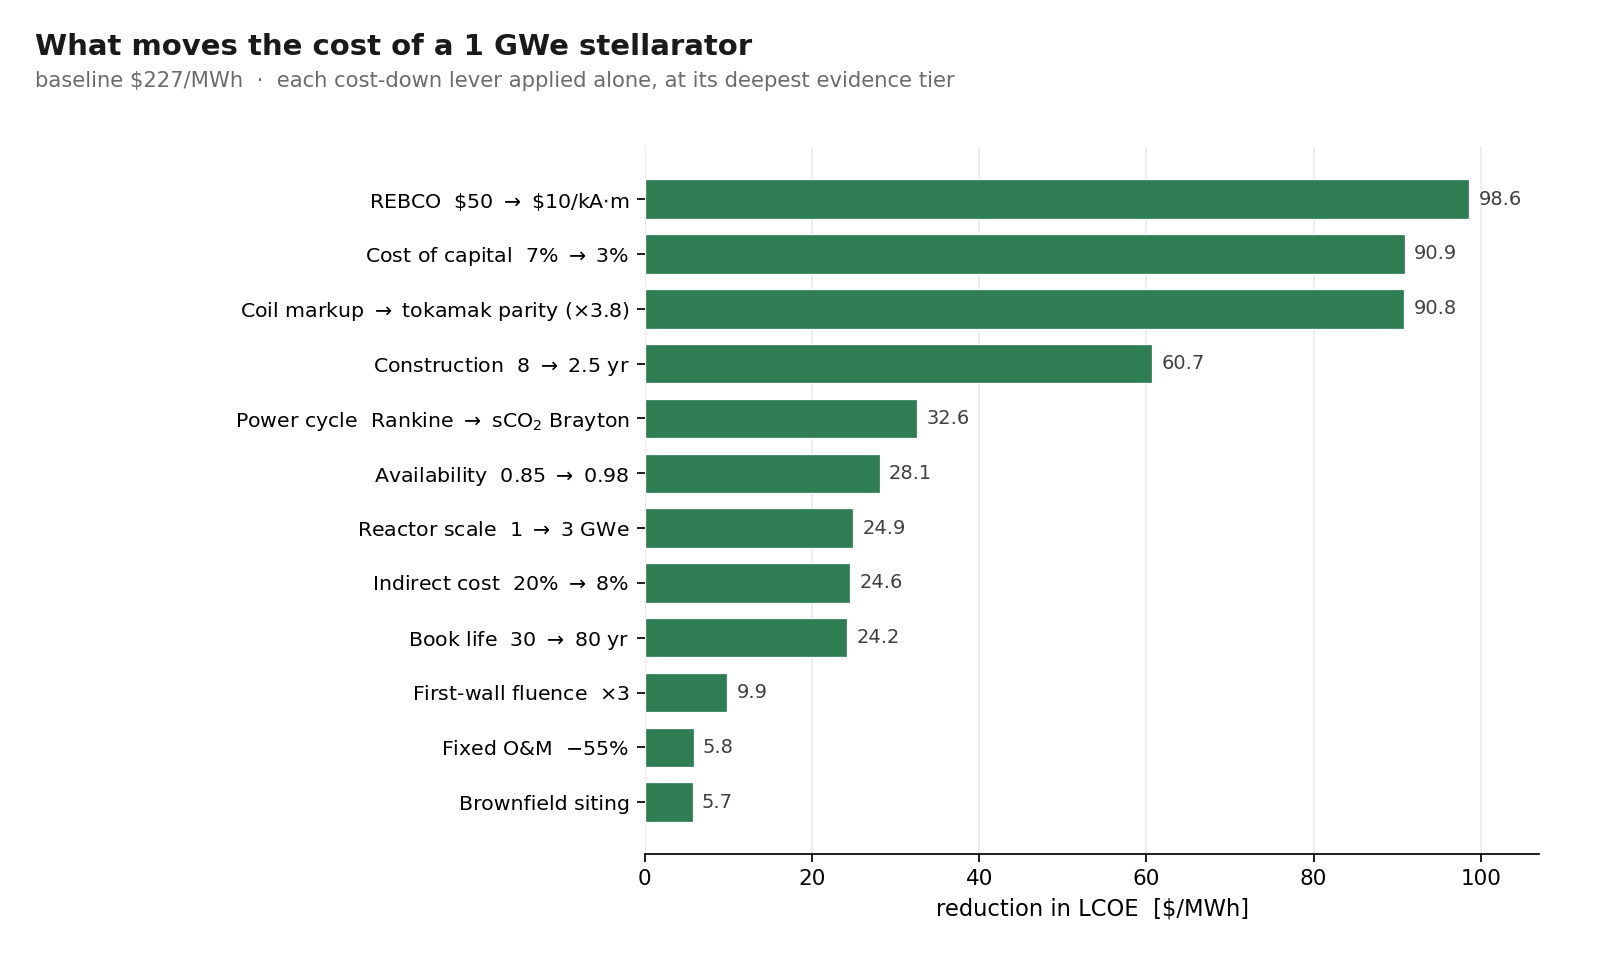
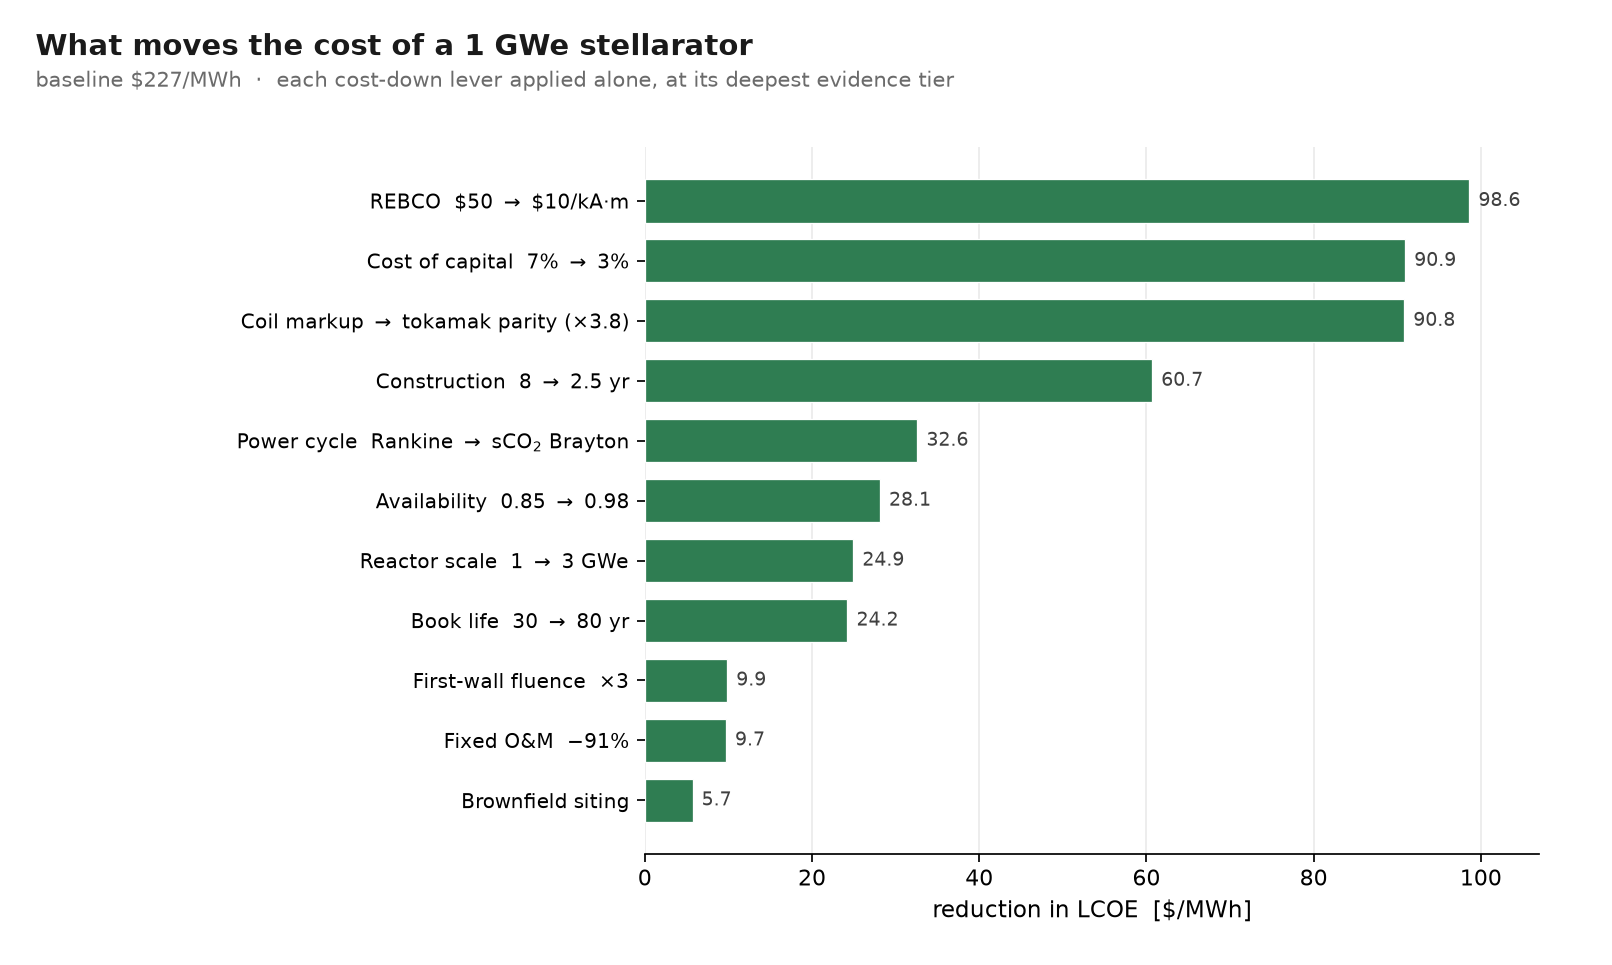
Match the published article: indirects held at 20% nominal, tier-3 lights-out O&M, regenerated results and figures
Per the 30 September publication check. See the PR description for the itemized changes.

diff --git a/tier_ladder_figs.py b/tier_ladder_figs.py
@@ -40,7 +40,23 @@ TIERS = ["0: design basis", "1: applicable record",
 DOT, MINUS, SUB2, TIMES = "·", "−", "₂", "×"
 
 
-def ladder(fname, title, sub, s1_label, s1, s2_label, s2, notes, ymax=None):
+def ladder(fname, title, sub, s1_label, s1, s2_label, s2, notes, ymax=None,
+           cents=False):
+    """cents=True plots in ¢/kWh instead of $/MWh (1 ¢/kWh == $10/MWh).
+
+    The corridor model works in $/MWh throughout, so the conversion happens
+    here at the plotting boundary only -- corridor_tiers.json stays canonical
+    and the other two corridors keep their $/MWh axis untouched.
+    """
+    scale = 0.1 if cents else 1.0
+    s1 = [v * scale for v in s1]
+    s2 = [v * scale for v in s2]
+    target = TARGET * scale
+    ylabel = "LCOE  [¢/kWh]" if cents else "LCOE  [$/MWh]"
+    # ~1-13 ¢/kWh needs a second decimal to keep the tiers distinguishable
+    vfmt = ",.2f" if cents else ",.1f"
+    tlabel = "1 ¢/kWh" if cents else "1 ¢/kWh\n($10/MWh)"
+
     fig, ax = plt.subplots(figsize=(13.2, 6.0))
     fig.patch.set_facecolor(SURFACE)
     ax.set_facecolor(SURFACE)
@@ -57,14 +73,14 @@ def ladder(fname, title, sub, s1_label, s1, s2_label, s2, notes, ymax=None):
             off = hi * 0.015
             ax.text(bar.get_x() + bar.get_width() / 2,
                     v + off if v >= 0 else v - off * 2.4,
-                    f"{v:,.1f}", ha="center",
+                    format(v, vfmt), ha="center",
                     va="bottom" if v >= 0 else "top",
                     fontsize=11.5, color=INK, fontweight="600", zorder=4)
 
     # target line, with a left gutter opened up so its label never sits on a bar
     ax.set_xlim(-0.92, len(TIERS) - 0.5)
-    ax.axhline(TARGET, ls="--", lw=1.1, color="#b8891f", zorder=2)
-    ax.text(-0.88, TARGET + hi * 0.014, "1 ¢/kWh\n($10/MWh)", fontsize=10,
+    ax.axhline(target, ls="--", lw=1.1, color="#b8891f", zorder=2)
+    ax.text(-0.88, target + hi * 0.014, tlabel, fontsize=10,
             color="#b8891f", ha="left", va="bottom", zorder=5, linespacing=1.35)
     if lo < 0:
         ax.axhline(0, lw=0.9, color=RULE, zorder=2)
@@ -78,7 +94,7 @@ def ladder(fname, title, sub, s1_label, s1, s2_label, s2, notes, ymax=None):
         ax.text(i, -0.125, n, transform=tr, ha="center", va="top",
                 fontsize=9.6, color=MUTED, linespacing=1.6)
 
-    ax.set_ylabel("LCOE  [$/MWh]", fontsize=12.5, color=INK, fontweight="600")
+    ax.set_ylabel(ylabel, fontsize=12.5, color=INK, fontweight="600")
     ax.set_ylim(lo * 1.35 if lo < 0 else 0, hi)
     ax.set_title(title, fontsize=16, color=INK, fontweight="600", loc="left", pad=20)
     ax.text(0, 1.018, sub, transform=ax.transAxes, fontsize=11.5, color=MUTED,
@@ -105,8 +121,10 @@ def ladder(fname, title, sub, s1_label, s1, s2_label, s2, notes, ymax=None):
 # Tier 1 carries no cost-of-capital record, so the 7% design basis is held there.
 NOTE_T1 = (f"no WACC record (7% held)\n"
            f"0.92 avail {DOT} 60 yr life {DOT} 5 yr build\n"
-           f"16% indirect {DOT} O&M {MINUS}31%")
+           f"16.7% eff. indirect {DOT} O&M {MINUS}31%")
 
+# Trimmed for this repository: the shared engine also draws the other
+# corridors' ladders, which live in their own repositories.
 # ------------------------------------------------------------------- mature D-T
 M = D["mature"]
 ladder(
@@ -119,42 +137,10 @@ ladder(
     ["machine as designed,\ncommercial economics",
      NOTE_T1,
      f"5% WACC {DOT} 0.95 avail {DOT} 80 yr life\n"
-     f"3.25 yr build {DOT} sCO{SUB2} {DOT} 12% indirect\n"
+     f"3.25 yr build {DOT} sCO{SUB2} {DOT} 10.8% eff. indirect\n"
      f"REBCO $25/kA{DOT}m {DOT} parity coils {DOT} fluence {TIMES}2",
      f"3% WACC {DOT} 0.98 avail {DOT} 2.5 yr build\n"
-     f"8% indirect {DOT} REBCO $10/kA{DOT}m\n"
+     f"8.3% eff. indirect {DOT} REBCO $10/kA{DOT}m\n"
      f"fluence {TIMES}3 {DOT} brownfield"],
 )
 
-# --------------------------------------------------------------- pulsed power
-P = D["pulsed"]
-ladder(
-    "figures/pulsed_tier_ladder.png",
-    "Pulsed power: evidence-tier ladder, cumulative by tier",
-    f"1 GWe {DOT} both configurations at their design rep rate {DOT} "
-    f"sCO{SUB2} from tier 2",
-    "fiber / direct, 10 Hz", [r[1] for r in P["fiber"]],
-    "KrF / hybrid, 1 Hz", [r[1] for r in P["krf"]],
-    ["as-designed drivers,\ncommercial economics",
-     NOTE_T1,
-     f"5% WACC {DOT} 0.95 avail {DOT} 80 yr life\n"
-     f"3.25 yr build {DOT} sCO{SUB2} {DOT} 12% indirect\n"
-     f"half-step driver + targets",
-     f"3% WACC {DOT} 0.98 avail {DOT} 2.5 yr build\n"
-     f"8% indirect {DOT} optics {TIMES}3\n"
-     f"targets {MINUS}90%/{MINUS}50% {DOT} 10 FTE"],
-)
-
-# ------------------------------------------------------------ alternate revenue
-R = D["revenue"]
-ladder(
-    "figures/revenue_tier_ladder.png",
-    "Alternate revenue: evidence-tier ladder, cumulative by tier",
-    "co-product credited against one 1 GWe D-T tokamak held at its published NOAK baseline",
-    "+ gold transmutation", [r[1] for r in R["gold"]],
-    "+ high-grade heat", [r[1] for r in R["heat"]],
-    ["electricity only,\n$110.5/MWh",
-     "spot Au at plant WACC,\n200 MW-th at observed price",
-     "ledger basis: 3% cooldown;\n200 MW-th + TES capacity",
-     "Au fungible day one;\nheat-led, 1 GW-th offtake"],
-)

diff --git a/corridor_tiers.py b/corridor_tiers.py
@@ -60,14 +60,23 @@ def coil_mult(rebco, planar=False, concept="stellarator"):
 # lever names.  See the markdown appendices for the citation behind each entry.
 # Each stop is the best value some real project has held at that grade; see the
 # markdown appendices for the citation behind every entry.
+#
+# Indirects are the exception: the nominal fraction is held at the NETL 20% at
+# every rung and only the build time moves what is actually charged, because
+# CAS30 = fraction x CAS20 x (construction_time / 6 yr) already carries the
+# schedule.  Effective shares are 20% at a 6 yr build, 16.7% at 5 yr, 10.8% at
+# 3.25 and 8.3% at 2.5 -- the same convention as the aneutronic studies.
 T1_REC = {"av": 0.92, "life": 60.0, "constr": 5.0,
-          "indir": 0.16, "om": 0.69}
-T2_EXT = {"wacc": 0.05, "indir": 0.12,
+          "indir": 0.20, "om": 0.69}
+T2_EXT = {"wacc": 0.05, "indir": 0.20,
           "av": 0.95, "life": 80.0, "constr": 3.25, "flu": 2.0,
           "om": 0.45}
 # Brownfield siting is a scenario choice, not an evidence grade: one package
 # (buildings, interconnection, heat rejection) that the tier-3 preset adopts.
-T3_SPEC = {"wacc": 0.03, "indir": 0.08,
+# Tier 3 also replaces the fleet-staffing O&M step with lights-out operation
+# (~10 FTE, fixed O&M x 0.0855), the same ruling the pulsed ladder (PT3) makes,
+# so the two D-T ladders and the byproduct plant ladder share one convention.
+T3_SPEC = {"wacc": 0.03, "indir": 0.20, "om": 0.0855,
            "av": 0.98, "constr": 2.5, "flu": 3.0, "disr": 0.167,
            "bld": 0.65, "elec": 0.40, "hr": 0.60}
 
@@ -146,19 +155,19 @@ def plcoe(concept, ri, L, eta_f, wear_f):
 
 
 PT1 = {"av": 0.92, "life": 60.0, "constr": 5.0,
-       "indir": 0.16, "om": 0.69}
+       "indir": 0.20, "om": 0.69}
 # Driver capital, target factory and target opex have a sourced baseline and a
 # sourced endpoint but nothing in between, so the tier-2 value is simply the
 # midpoint of the two -- an increment between baseline and ceiling, not a
 # separately sourced operating point.  Same convention as the wall-plug and
 # shot-life increments above.
-PT2 = {"wacc": 0.05, "indir": 0.12,
+PT2 = {"wacc": 0.05, "indir": 0.20,
        "av": 0.95, "life": 80.0, "constr": 3.25,
        "sco2": True, "om": 0.45, "tfac": 0.825,
        "drv": {"BLF": 0.834, "Xcimer": 0.813},
        "tgt": {"BLF": 0.55, "Xcimer": 0.75}}
 # tier 3 replaces the fleet-staffing O&M step with lights-out operation (~10 FTE)
-PT3 = {"wacc": 0.03, "indir": 0.08,
+PT3 = {"wacc": 0.03, "indir": 0.20,
        "av": 0.98, "constr": 2.5, "om": 0.0855, "tfac": 0.65,
        "drv": {"BLF": 0.667, "Xcimer": 0.625},
        "tgt": {"BLF": 0.10, "Xcimer": 0.50},

diff --git a/ct_tornado.py b/ct_tornado.py
@@ -28,7 +28,7 @@ M = dict(inflation=0.02, fluence=18.0, indir=0.2, ref_constr=6.0, ref_p=1000.0,
 AGG = dict(wacc=0.03, life=60.0, indir=0.10, constr=3.0, av=0.95, flu=3.0,
            disr=0.167, coil=0.60, heat=0.40, fw=0.70, shield=0.70, vessel=0.60,
            assembly=0.65, rh=0.55, fuelh=0.65, coolant=0.60, iandc=0.60,
-           startup=0.33, bld=0.65, elec=0.40, hr=0.60, om=0.45, ins=0.33,
+           startup=0.33, bld=0.65, elec=0.40, hr=0.60, om=0.0855, ins=0.33,
            decom=0.50)
 BASE = dict(wacc=M["wacc"], life=M["life"], indir=M["indir"], constr=None,
             av=M["av"], flu=1.0, disr=1.0, coil=1.0, heat=1.0, fw=1.0,
@@ -45,7 +45,7 @@ LABEL = dict(wacc="WACC 7%->3%", life="Plant life 30->60 yr",
              fuelh="Tritium plant -35%", coolant="Coolant loops -40%",
              iandc="I&C -40%", startup="Start-up cost -67%",
              bld="Buildings -35%", elec="Electrical plant -60%",
-             hr="Heat rejection -40%", om="O&M -55%", ins="Insurance -67%",
+             hr="Heat rejection -40%", om="O&M -91%", ins="Insurance -67%",
              decom="Decommissioning -50%")
 
 

diff --git a/stel_tornado_plot.py b/stel_tornado_plot.py
@@ -69,8 +69,7 @@ rows = [
     (f"Construction  {BASE['constr']:.0f} $\\rightarrow$ 2.5 yr",
                                                        d(constr=2.5),       "lever"),
     ("Availability  0.85 $\\rightarrow$ 0.98",         d(av=0.98),          "lever"),
-    ("Fixed O&M  $-$55%",                              d(om=0.45),          "lever"),
-    ("Indirect cost  20% $\\rightarrow$ 8%",           d(indir=0.08),       "lever"),
+    ("Fixed O&M  $-$91%",                              d(om=0.0855),        "lever"),
     ("Brownfield siting",                              d(bld=0.65, elec=0.40,
                                                          hr=0.60),          "lever"),
     ("Power cycle  Rankine $\\rightarrow$ sCO$_2$ Brayton", d_slice(SCO2),       "lever"),

diff --git a/stel_tornado_symmetric.py b/stel_tornado_symmetric.py
@@ -70,7 +70,7 @@ SPEC = [
     ("Book life",            "life",  30.0, 80.0,          "{:.0f} yr", False),
     ("Construction",         "constr", 8.0, 2.5,           "{:.1f} yr", False),
     ("Availability",         "av",    0.85, 0.98,          "{:.3f}",   True),
-    ("Fixed O&M",            "om",     1.0, 0.45,          "×{:.2f}",  True),
+    ("Fixed O&M",            "om",     1.0, 0.0855,          "×{:.2f}",  True),
     ("Indirect cost",        "indir", 0.20, 0.08,          "{:.0%}",   True),
     ("REBCO $/kA·m",       "coil",   1.0, 0.20,          "×{:.2f}",  False),
     ("Coil markup",          "coil",   1.0, MARKUP_PARITY, "×{:.2f}",  False),

diff --git a/README.md b/README.md
@@ -8,18 +8,20 @@ This is the analysis code behind the 1cFE dispatch *Mature Magnetic D-T Corridor
 
 ## Result
 
-A mature D-T magnetic plant does not reach 1 ¢/kWh. It reaches **2.5 ¢/kWh**, and only
+A mature D-T magnetic plant does not reach 1 ¢/kWh. It reaches **2.2 ¢/kWh**, and only
 on assumptions with no mechanism behind them.
 
 | Evidence tier | 1 GWe | 3 GWe |
 |---|---|---|
 | 0 · design basis | $227.5 | $202.5 |
-| 1 · applicable record | $154.9 | $140.8 |
-| 2 · extrapolation with a known mechanism | $43.1 | $42.7 |
-| 3 · speculation, no mechanism | **$25.2** | **$24.8** |
+| 1 · applicable record | $158.6 | $144.1 |
+| 2 · extrapolation with a known mechanism | $44.4 | $43.9 |
+| 3 · speculation, no mechanism | **$21.9** | **$23.1** |
 
 LCOE in $/MWh. Tiers are cumulative — each carries every entry below it. The 1 ¢/kWh
 target is $10/MWh.
+
+Two conventions were brought to the published article on 30 September 2026. The nominal indirect-cost fraction is held at the NETL 20% on every rung and only the build time moves what is charged (CAS30 = fraction × CAS20 × build / 6 yr, so 20 / 16.7 / 10.8 / 8.3% effective at 6 / 5 / 3.25 / 2.5 years), the convention the aneutronic studies use; the earlier 20 / 16 / 12 / 8% ladder charged the schedule twice. Tier 3 prices lights-out operation (fixed O&M × 0.0855, about ten staff), the ruling the pulsed corridor's ladder already made, so the D-T ladders share one tier-3 O&M convention. Both are in `corridor_tiers.py`; the tornado applies the same deepest values one at a time.
 
 ## Reproducing
 
@@ -41,7 +43,8 @@ python build_stel_anchors.py                # solve the stellarator at 1 and 3 G
 python build_ct_corridor.py                 # compact-tokamak reference sweep
 python corridor_tiers.py                    # evidence ladder -> corridor_tiers.json
 python tier_ladder_figs.py                  # figures/*_tier_ladder.png
-python stel_tornado_plot.py                 # figures/stel_tornado.png
+python stel_tornado_plot.py                 # figures/stel_tornado.png; the article's
+                                            # fig_tornado_crop.png is its top 965 px
 ```
 
 `build_stel_anchors.py` should print:
